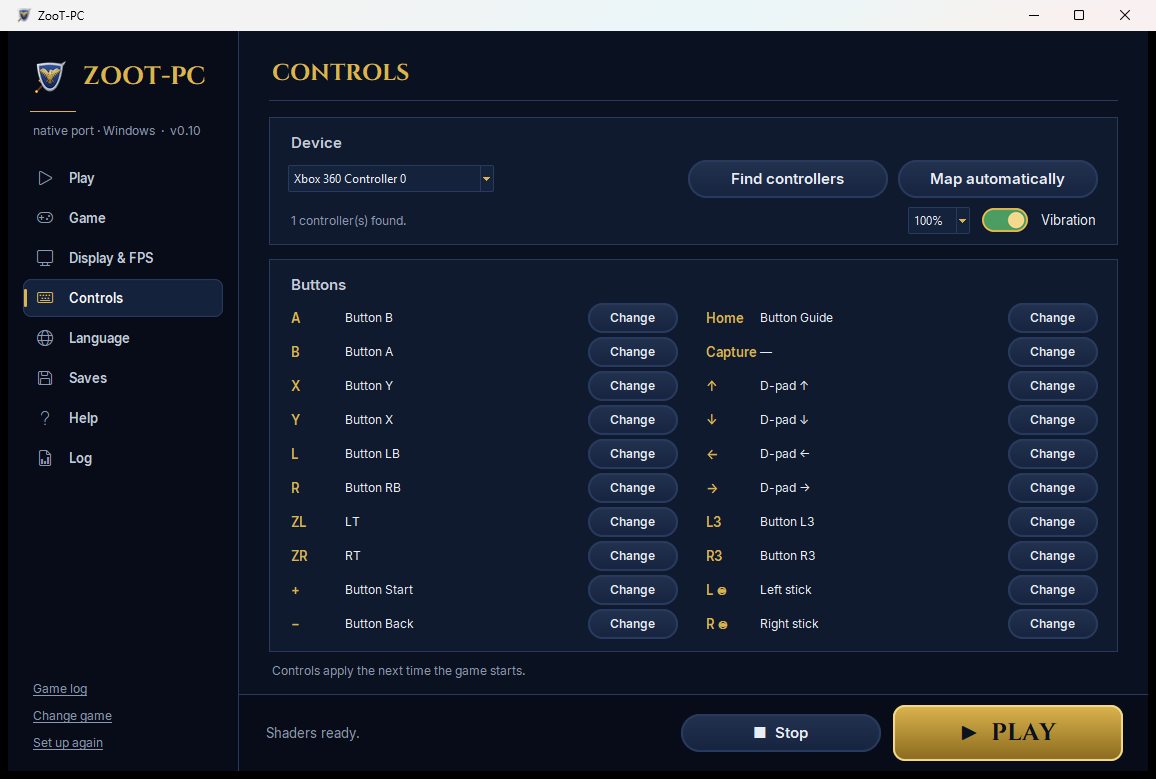
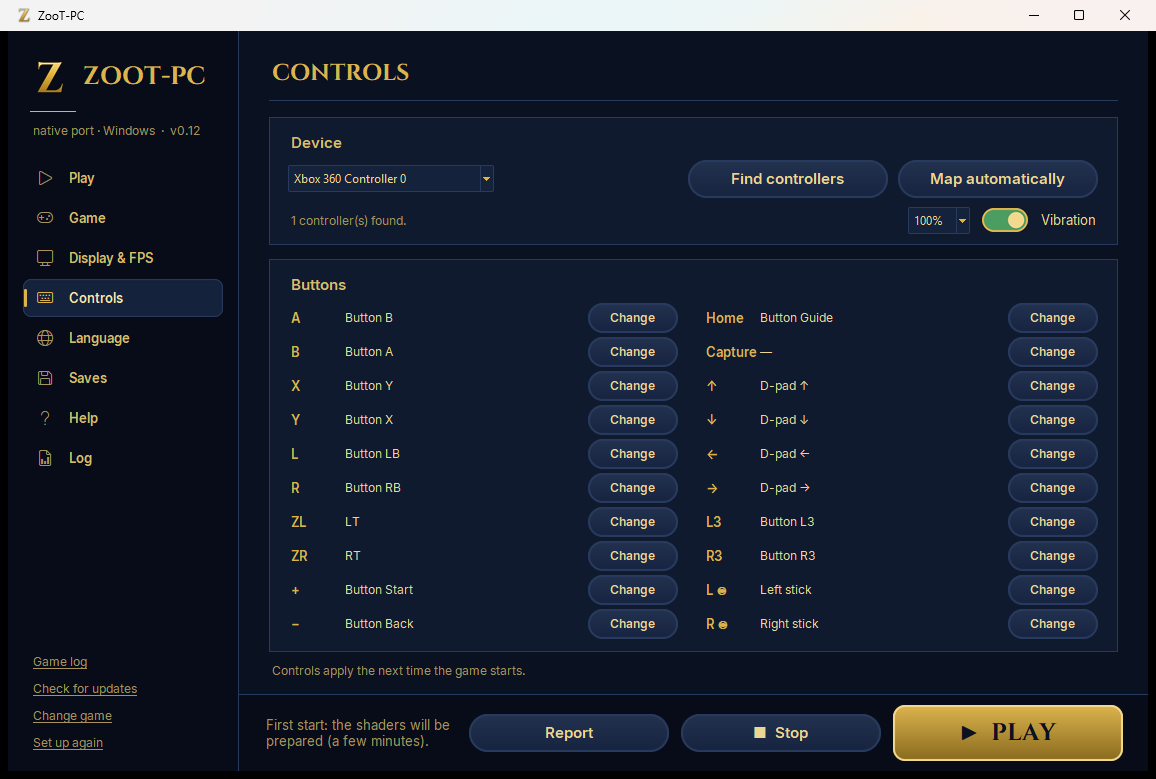
zoot v0.12: version bump, screenshots with the Z mark

diff --git a/src/yuzu_cmd/emu_window/emu_window_sdl3.cpp b/src/yuzu_cmd/emu_window/emu_window_sdl3.cpp
@@ -36,7 +36,7 @@
 // ZOOT_PORT_VERSION (set by the launcher) overrides the built-in version.
 std::string ZootBaseTitle() {
     const char* const port = std::getenv("ZOOT_PORT_VERSION");
-    return fmt::format("ZooT v{}", port && *port ? port : "0.11.1");
+    return fmt::format("ZooT v{}", port && *port ? port : "0.12");
 }
 
 static std::string ZootWindowTitle(Core::System& system, double fps) {

diff --git a/zoot/launcher/zoot_launcher.py b/zoot/launcher/zoot_launcher.py
@@ -33,7 +33,7 @@ import zoot_update as U  # noqa: E402
 from zoot_i18n import _  # noqa: E402
 
 APP = 'ZooT-PC'
-VERSION = '0.11.1'
+VERSION = '0.12'
 TITLE_ID = '0400486024DEC000'
 GAME_EXTS = ('.nup', '.nx', '.nsp', '.xci')
 

diff --git a/README.md b/README.md
@@ -23,8 +23,8 @@ graphics card and RAM).
 |---|---|
 | ![Loading screen](docs/zoot/screenshots/loading-screen.png) | ![F1 menu](docs/zoot/screenshots/menu-f1.png) |
 
-*Shown with the default ZooT card. Your own cover (`user\zoot\capa.png`) replaces the shield on
-the card and behind the loading screen, on your PC only.*
+*Shown with the default ZooT card. Click the card (or *Game → Choose cover…*) to pick a picture
+from your PC: it replaces the Z on the card and goes behind the loading screen, on your PC only.*
 
 ## What you get
 
